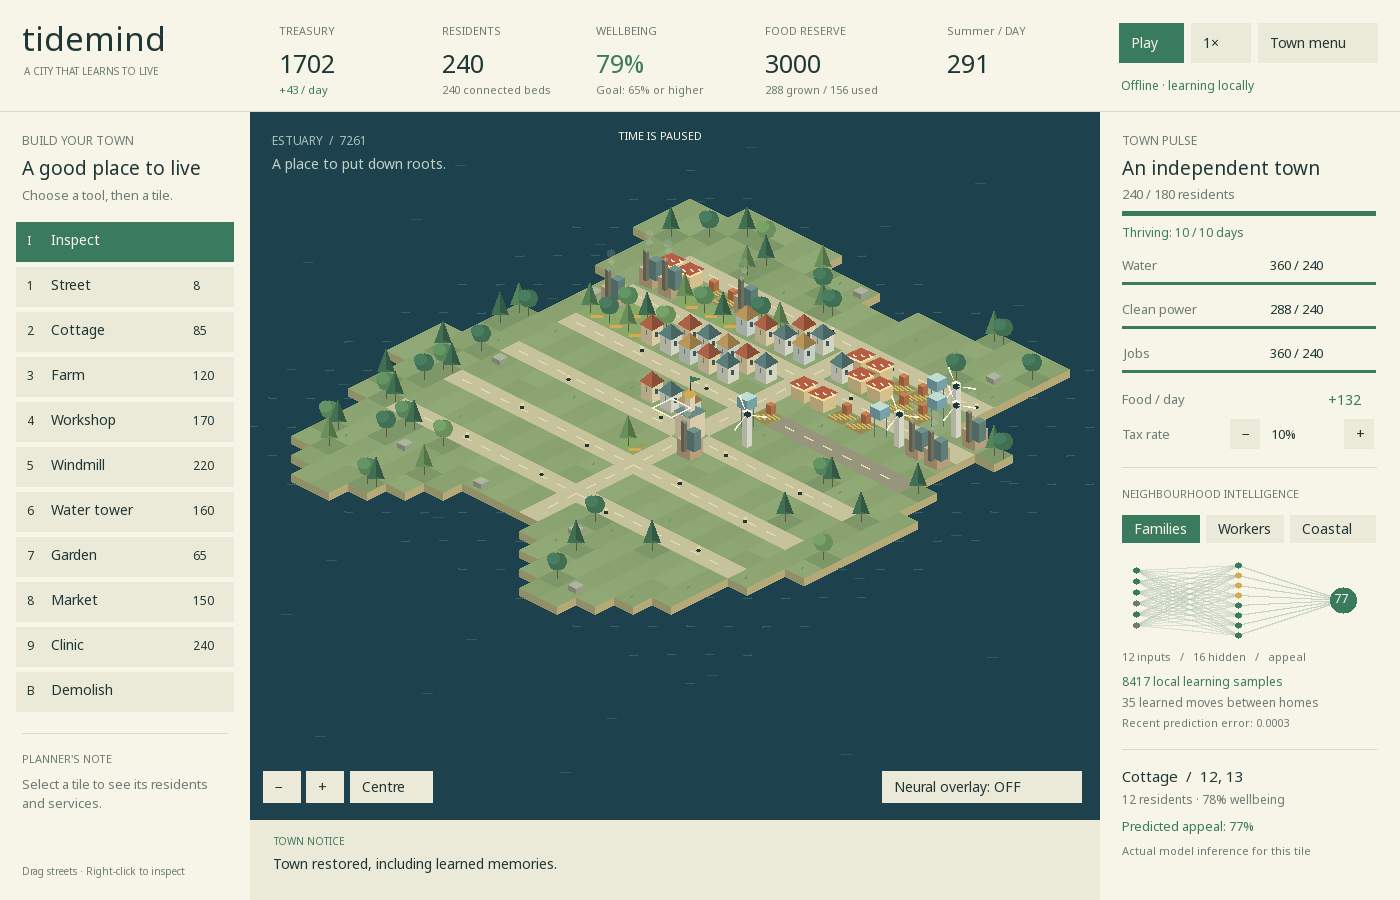
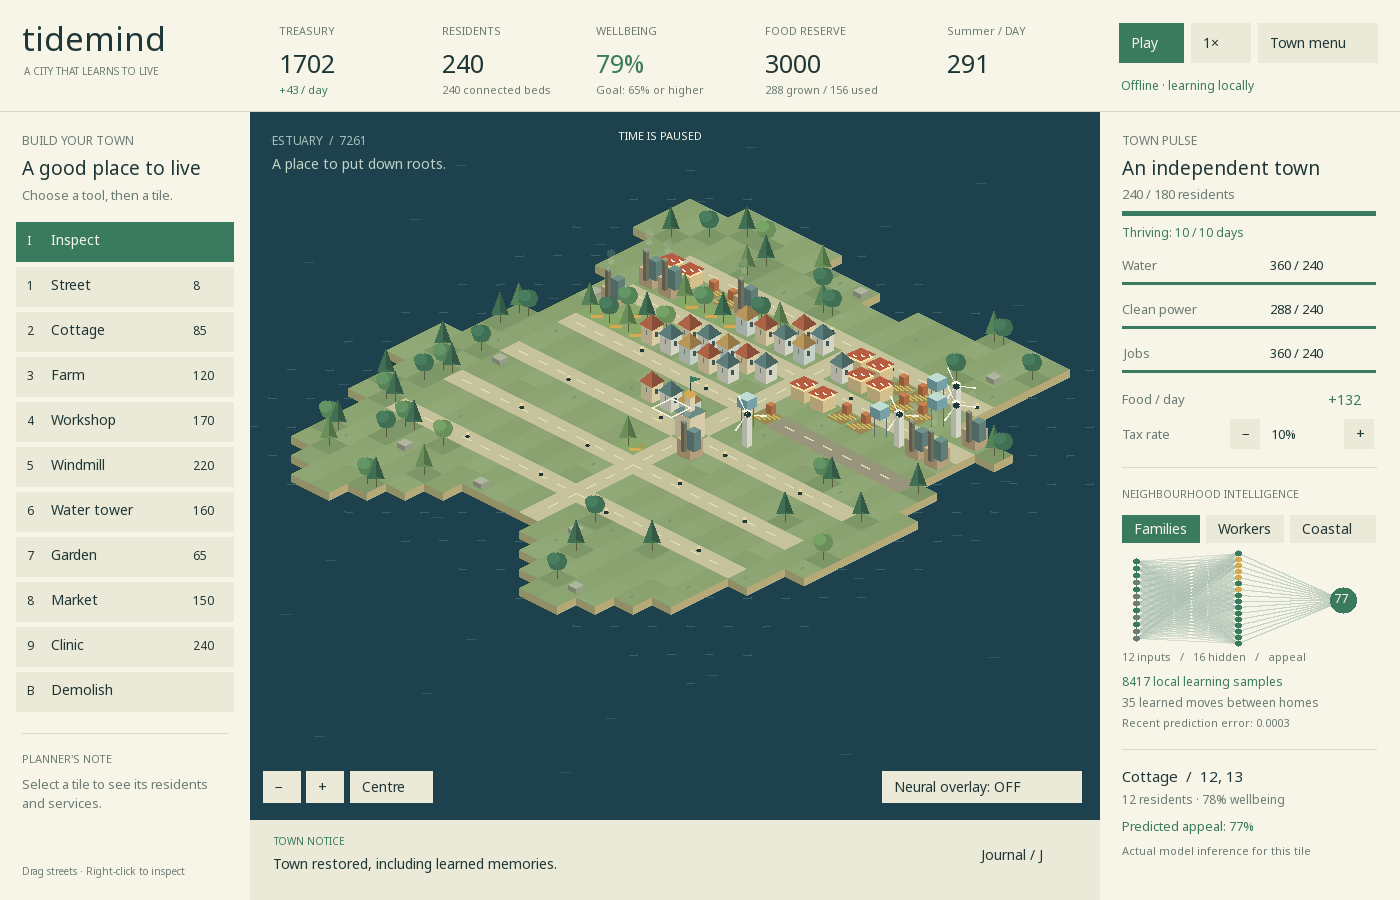
fix: keep fast street drags connected and verify native input flow

Changed region(s): [[0.7986, 0.5911, 0.9521, 0.7156], [0.7064, 0.9333, 0.7371, 0.9644]]

diff --git a/src/ui.cpp b/src/ui.cpp
@@ -73,7 +73,7 @@ class Game {
     double elapsed = 0, clock = 0, toastTime = 0;
     std::string toast = "Welcome, town planner.";
     bool smokeBuilt = false, smokeSaved = false, smokeLoaded = false, smokeDemo = false,
-         smokeJournal = false;
+         smokeJournal = false, smokeRoads = false;
     void color(Color c) {
         SDL_SetRenderDrawColor(renderer, c.r, c.g, c.b, c.a);
     }
@@ -918,7 +918,20 @@ void Game::handle(const SDL_Event &e) {
             camY += e.motion.yrel;
         }
         if (painting && hover >= 0 && hover != lastPaint) {
-            apply(hover);
+            // Motion events can skip tiles. Fill an orthogonal path so a fast
+            // drag still creates a connected street, including diagonal drags.
+            if (lastPaint >= 0) {
+                int x = lastPaint % MapSize, y = lastPaint / MapSize;
+                int tx = hover % MapSize, ty = hover / MapSize;
+                while (x != tx || y != ty) {
+                    if (std::abs(tx - x) >= std::abs(ty - y) && x != tx)
+                        x += tx > x ? 1 : -1;
+                    else
+                        y += ty > y ? 1 : -1;
+                    apply(Simulation::index(x, y));
+                }
+            } else
+                apply(hover);
             lastPaint = hover;
         }
     }
@@ -1001,8 +1014,32 @@ void Game::smokeStep(int frame) {
     }
     if (frame == 48)
         key(SDLK_SPACE);
-    if (frame == 50)
+    if (frame == 49)
+        key(SDLK_1);
+    if (frame == 50) {
+        auto start = tilePoint(8, 12), end = tilePoint(10, 12);
+        SDL_Event e{};
+        e.type = SDL_MOUSEBUTTONDOWN;
+        e.button.button = SDL_BUTTON_LEFT;
+        e.button.x = int(start.x);
+        e.button.y = int(start.y);
+        SDL_PushEvent(&e);
+        e = {};
+        e.type = SDL_MOUSEMOTION;
+        e.motion.x = int(end.x);
+        e.motion.y = int(end.y);
+        SDL_PushEvent(&e);
+        e = {};
+        e.type = SDL_MOUSEBUTTONUP;
+        e.button.button = SDL_BUTTON_LEFT;
+        SDL_PushEvent(&e);
+    }
+    if (frame == 52) {
+        smokeRoads = true;
+        for (int x = 8; x <= 10; ++x)
+            smokeRoads &= sim.tiles[Simulation::index(x, 12)].building == Building::Road;
         key(SDLK_i);
+    }
 }
 int Game::run() {
     if (SDL_Init(SDL_INIT_VIDEO | SDL_INIT_TIMER) != 0) {
@@ -1117,7 +1154,8 @@ int Game::run() {
                           paused && sim.day > 1 && sim.brain.samples > sim.initialTraining;
                 std::cout << "UI smoke: build=" << smokeBuilt << " save=" << smokeSaved
                           << " demolish=" << smokeDemo << " load=" << smokeLoaded
-                          << " journal=" << smokeJournal << " timer day=" << sim.day
+                          << " roads=" << smokeRoads << " journal=" << smokeJournal
+                          << " timer day=" << sim.day
                           << " local samples=" << sim.brain.samples - sim.initialTraining << '\n';
                 return ok ? 0 : 1;
             }
